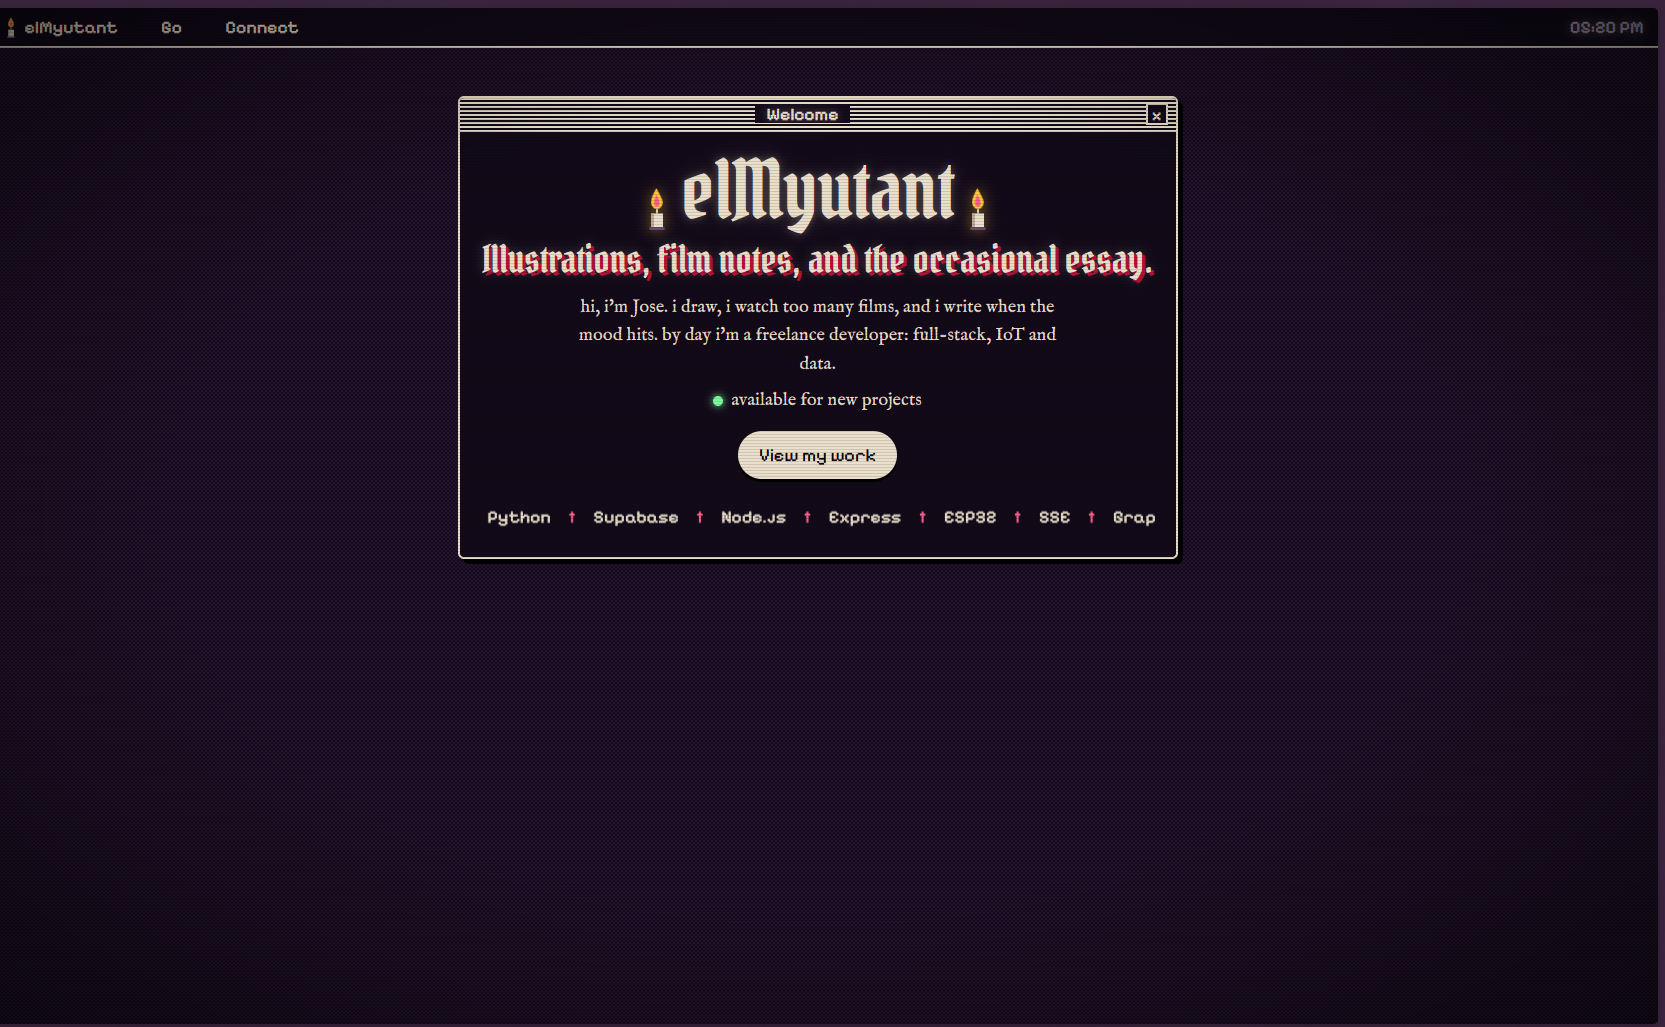
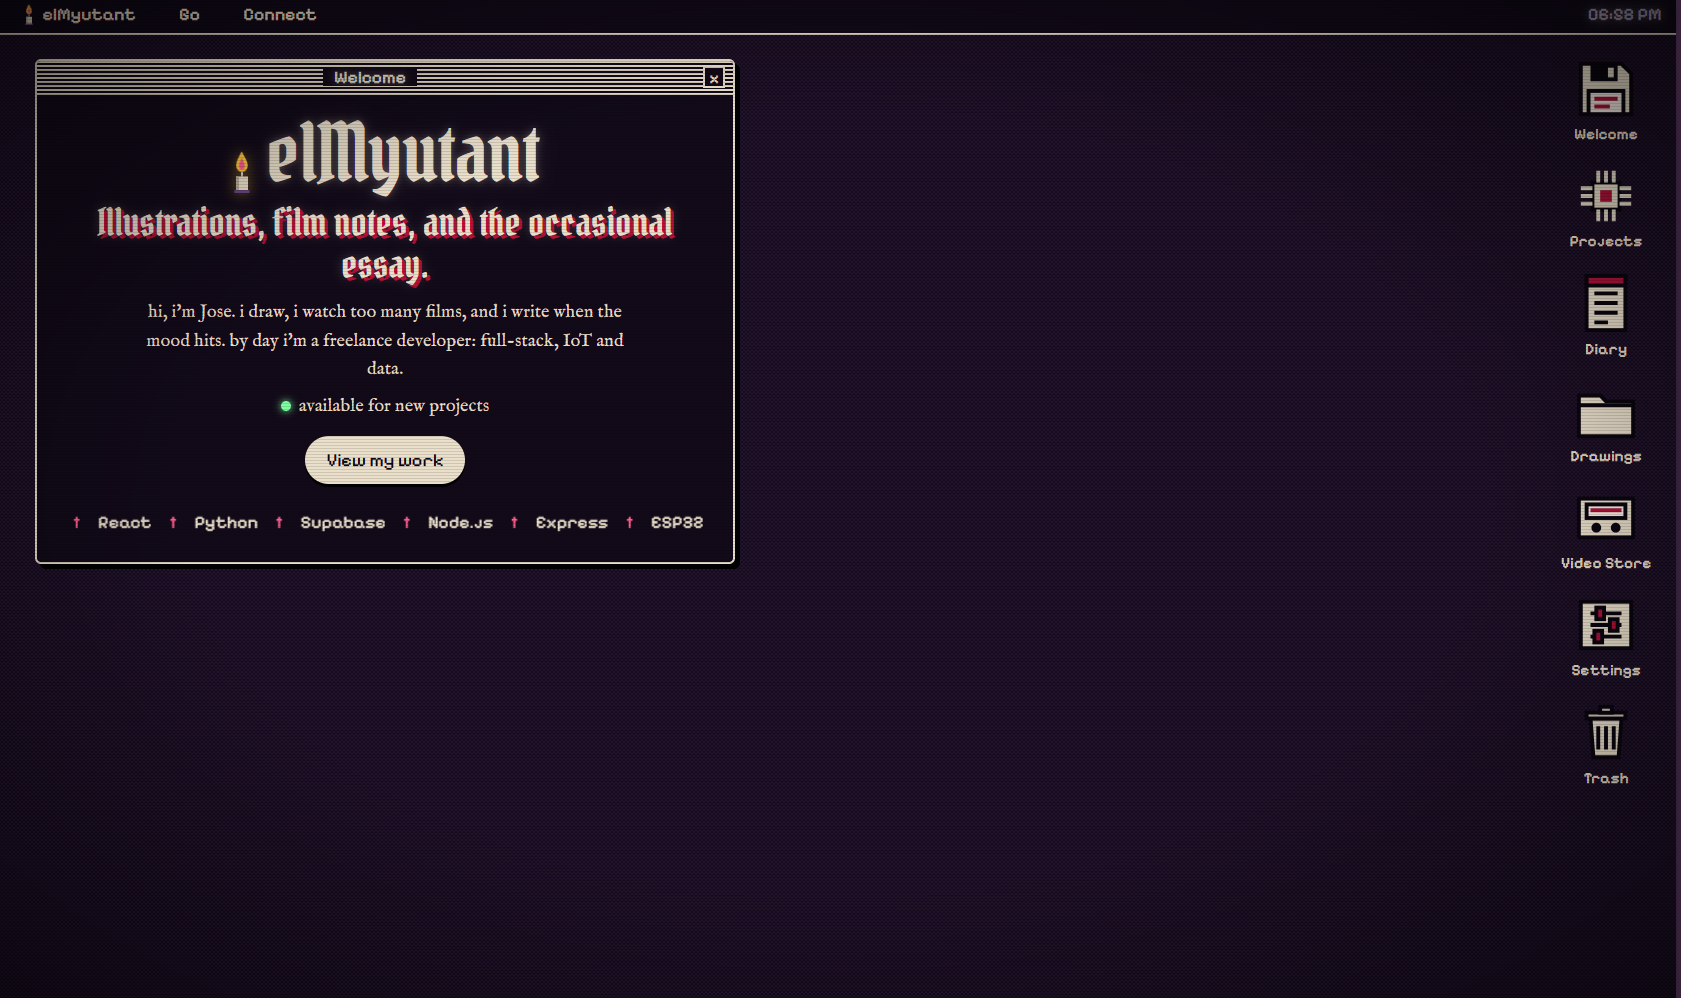
Add window dragging and analytics

diff --git a/app/layout.tsx b/app/layout.tsx
@@ -5,6 +5,7 @@ import MenuBar from "@/components/MenuBar";
 import "./globals.css";
 import { FX_SCRIPT } from "@/lib/fx";
 import DesktopIcons from "@/components/DesktopIcons"
+import { Analytics } from "@vercel/analytics/next";
 
 const display = Pirata_One({ subsets: ["latin"], weight: "400", variable: "--display" });
 const body = IM_Fell_English({ subsets: ["latin"], weight: "400", variable: "--body" });
@@ -13,7 +14,7 @@ const ui = Pixelify_Sans({ subsets: ["latin"], variable: "--ui" });
 export const metadata: Metadata = {
   title: { default: SITE.name, template: `%s · ${SITE.name}` },
   description: SITE.tagline,
-  metadataBase: new URL("https://elmyutant.vercel.app"),
+  metadataBase: new URL("https://www.elmyutant.dev/"),
 };
 
 export default function RootLayout({ children }: { children: React.ReactNode }) {
@@ -30,6 +31,7 @@ export default function RootLayout({ children }: { children: React.ReactNode }) 
         <MenuBar />
         <DesktopIcons />
         {children}
+        <Analytics />
       </body>
     </html>
   );

diff --git a/README.md b/README.md
@@ -2,7 +2,7 @@
 
 A personal website built as an "operating system in the browser": a goth, retro-90s desktop with a menu bar, icons and windows. It holds my illustration gallery, a Letterboxd film shelf, a diary, and my freelance work.
 
-**Live:** https://elmyutant.vercel.app
+**Live:** https://www.elmyutant.dev/
 
 ![Screenshot](docs/screenshoot1.png)
 ![![Video Store: the VHS shelf]](docs/screenshoot2.png)
